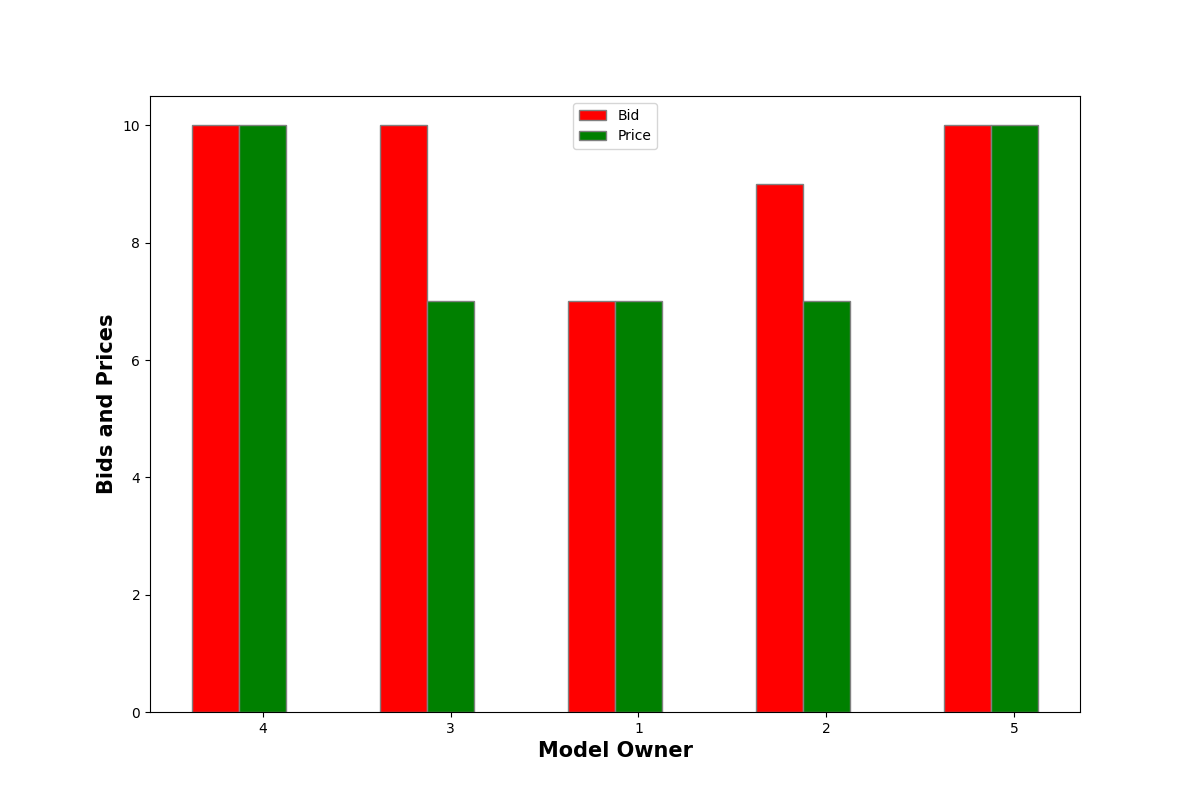
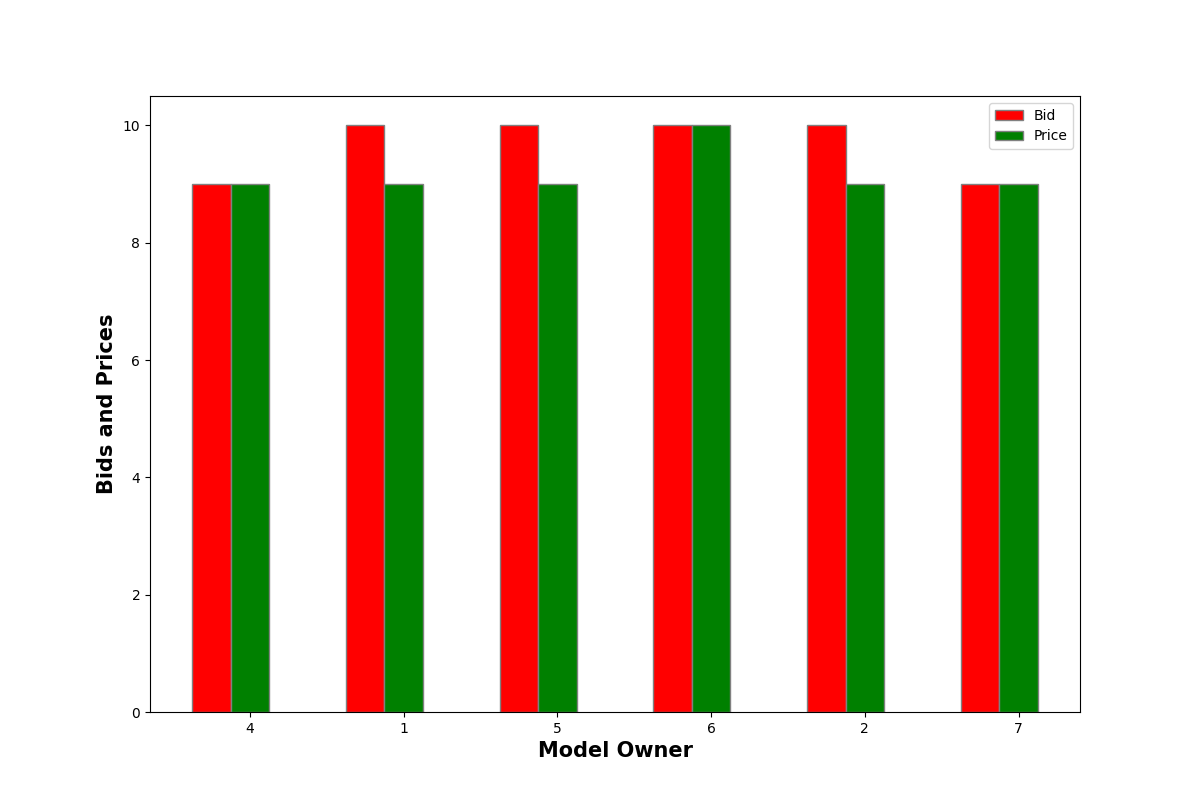
simulation complete

diff --git a/auction2.py b/auction2.py
@@ -22,7 +22,7 @@ show1 = []
 show2 = []
 show3 = []
 show4 = []
-for hum in range(m,120,10):
+for hum in range(m,150,10):
     n = hum
     D =[]
     for i in range(n):
@@ -390,8 +390,8 @@ payme = [show2[i] for i in range(len(show2))]
 br1 = np.arange(len(dem))
 br2 = [i + barwidth for i in br1]
 
-plt.bar(br1,dem,color='r',width=barwidth,edgecolor='grey',label='Pricesss')
-plt.bar(br2,payme,color='g',width=barwidth,edgecolor='grey',label='Paymentss')
+plt.bar(br1,dem,color='r',width=barwidth,edgecolor='grey',label='Prices')
+plt.bar(br2,payme,color='g',width=barwidth,edgecolor='grey',label='Payments')
 
 plt.xlabel('Prices',fontweight='bold',fontsize=15)
 plt.ylabel('Payments',fontweight='bold',fontsize=15)
